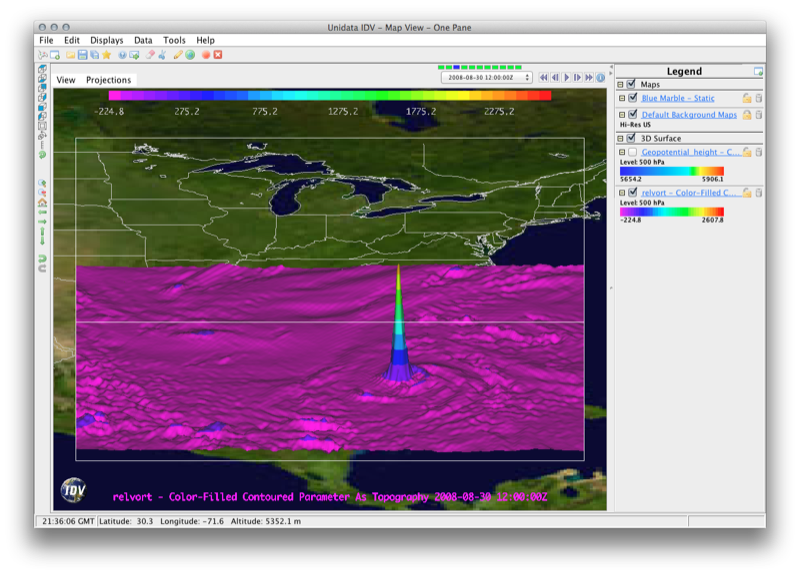
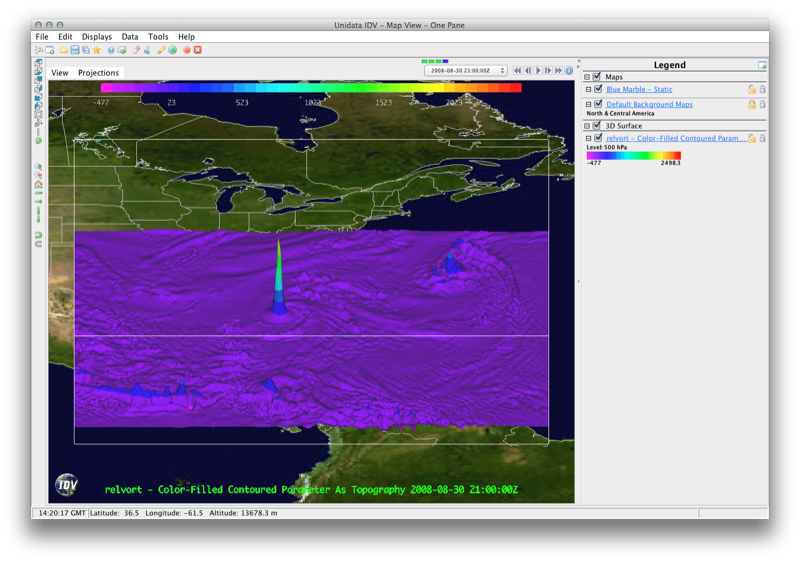
wrf workshop docs tweaks from 2012-06-27  meeting with Yuan, Julien, and Tom Y.

diff --git a/auxdata/docs/workshop/content/datadisplays/wrf/InteractiveWRFGridDisplays.html b/auxdata/docs/workshop/content/datadisplays/wrf/InteractiveWRFGridDisplays.html
@@ -9,10 +9,10 @@ Displays for WRF post-processed data.
 </div>
 
 <p>
-The following are examples of some of the different kinds of displays available in the IDV. For more information how to manipulate the display, simply click the image to see the User Guide section for that particular display type. The general format of this section will be an image, followed by the steps needed to reproduce the image. However, before diving into creating different displays in the IDV, let's take a moment to address performance issues you may encounter.
+The following are examples of some of the different kinds of displays available in the IDV. For more information how to manipulate the display, simply click the image to see the User Guide section for that particular display type. The general format of this section will be an image, followed by the steps needed to reproduce the image. However, before diving into creating different displays in the IDV, let's take a moment to discuss how to handle large data sets.
 </p>
 
-<div class="pagetitle">A note on performance</div>
+<div class="pagetitle">Preparation: Dealing with Large Data</div>
 
 <p>
 As you may have experienced, it can take quite some time to get the data into the IDV and render the displays. One way to speed this up is to spatially subset the data over an area of interest. For our case, the Gulf of Mexico is where the 'action' is, so let's subest for that particular region:
@@ -42,12 +42,12 @@ Many of the example images used below take advantage of the NASA blue marble bac
 </p>
 
 <p>
-It may seem like we've done a lot of work to setup our environment (loading data, subsetting, adding a background, etc.). In order to aid in quickly restoring our environment, we will use the <b>bundle</b> feature of the IDV. A bundle is a way of saving the state of the IDV (current data sources, loaded maps, etc.). You can create a bundle that points to local or remote data (an .xidv), or you can create a bundle that actually contains the data (a .zidv), the latter of which is useful when sharing displays of data you've generated yourself. For our purposes, let's create a bundle that points to the WRF output on our memory stick:
+It may seem like we've done a lot of work to setup our environment (loading data, subsetting, adding a background, etc.). To aid in quickly restoring our environment, we will use the [ht::popup {http://www.unidata.ucar.edu/software/idv/docs/userguide/Bundles.html} {bundle}] feature of the IDV. A bundle is a way of saving the state of the IDV (current data sources, loaded maps, etc.). You can create a bundle that points to local or remote data (an .xidv), or you can create a bundle that actually contains the data (a .zidv), the latter of which is useful when sharing displays of data you've generated yourself, as it ensures your colleagues have the data needed to view the display. For our purposes, let's create a bundle that points to the WRF output on our memory stick:
 </p>
 
 <ol class="step">
 <li>From the main menu bar, select [ht::menu {File} {Save As}] to bring up the [ht::command Save] dialog box.</li>
-<li>Make sure [ht::param Views], [ht::param Displays], and [ht::param Data Sources] are checked, as well as [ht::param Save with relative paths].</li>
+<li>Make sure [ht::param Views], [ht::param Displays], and [ht::param Data Sources] are checked.</li>
 <li>Make sure the [ht::param File Format:] is set to [ht::param IDV Bundles (*.xidv)], and name the bundle [ht::param basicSetup.xidv].</li>
 <li>Save your bundle in the same directory as the WRF output on the memory stick</li>
 </ol>
@@ -55,8 +55,14 @@ It may seem like we've done a lot of work to setup our environment (loading data
 [ht::cimg ./images/InteractiveWRFSaveBundle.png]
 
 <p>
-To test the bundle, click the scissors symbol, found just below the main menu bar, to clear out all of the data and displays. Then, from the main menu bar, click [ht::menu {File} {Open}], use the file dialog box to navigate to your bundle, and select your bundle. An [ht::command Open bundle] dialog box will appear &mdash; make sure [ht::param Remove and displays & data] is checked and click [ht::command OK]. That's it &mdash; you should be good to go!
+To test the bundle, click the scissors symbol, found just below the main menu bar, to clear out all of the data and displays. Then:
 </p>
+
+<ul class="step">
+<li>From the main menu bar, click [ht::menu {File} {Open}].</li>
+<li>Use the file dialog box to navigate to your bundle, and select your bundle.</li>
+<li>An [ht::command Open bundle] dialog box will appear &mdash; make sure [ht::param Remove and displays & data] and [ht::param Try to add displays to current windows] are checked and click [ht::command OK].
+</ul>
 
 <div class="pagetitle">Plan Views</div>
 
@@ -87,7 +93,7 @@ To test the bundle, click the scissors symbol, found just below the main menu ba
     to change the contour properties, such as base contour, interval, and label properties.</li>
 <li>In the [ht::command Displays] panel, change the contour color to black by clicking the box next to Color Table (likely labeled [ht::param PressureMSL]) and selecting [ht::menu {Solid} {Black}].</li>
 <li>Animate your display by clicking the <b>"play"</b> button, located just above
-    and to the right of your display on the Main View Window</li>
+    and to the right of your display on the Main View Window.</li>
 </ol>
 
 <div class="pagetitle">Wind Barb and Vector Displays</div>
@@ -112,7 +118,7 @@ to clean things up a bit.
 
 <ul class="step">
 <li>In the [ht::command Displays] panel, select
-    [ht::param truewindvectors] under [ht::param View1], and set the [ht::param Skip: XY:] factor to 10</li>
+    [ht::param truewindvectors] under [ht::param View1], and set the [ht::param Skip: XY:] factor to 10.</li>
 <li>Change the color of the barbs to white by selecting "white" from
     the dropdown box next to Color.</li>
 </ul>
@@ -134,7 +140,7 @@ creating the display.
 <li>Make sure your WRF ouput is [ht::popup "InteractiveWRFLoadOutput.html" loaded] (or utilize the bundle we just created).</li>
 <li>In the [ht::command Field Selector] panel,
     expand the [ht::param 2D grid] tab. Select
-    [ht::param Pressure Reduced to MSL @ msl]</li>
+    [ht::param Pressure Reduced to MSL @ msl].</li>
 </ol>
 
 <p>
@@ -174,7 +180,7 @@ averaged over longitude for each time-step. To average over latitude instead, re
     [ht::menu {3D Surface} {Isosurface Colored by another parameter}] display,
     and then click the [ht::command Create Display] button.</li>
 <li>A pop-up box will prompt you to select which parameter you would like to color
-    the wind speed isosurface. Select [ht::menu {3D grid} {Temperature @ isobaric}]</li>
+    the wind speed isosurface. Select [ht::menu {3D grid} {Temperature @ isobaric}].</li>
 <li>In the [ht::command Displays] panel, set the Isosuface value to 20 m/s.</li>
 <li>In the Main View window under the Legend List (right edge of the window), right-click the color table and select [ht::param Edit Color Table]. This will bring up the color table editor.</li>
 <li>From the editor window, place your cursor over the color table and right click. Select [ht::param Invert Color Table], and then click [ht::command OK] to exit the editor.</li>
@@ -197,13 +203,19 @@ averaged over longitude for each time-step. To average over latitude instead, re
     expand the [ht::param 3D grid] tab. Scroll down and expand the
     [ht::param Derived] tab. Select the
     [ht::param Relative Vorticity (from u_wind & v_wind)] field and the
-    [ht::menu {3D Surface} {Color-Filled Contoured Parameter as Topography}] display</li>
+    [ht::menu {3D Surface} {Color-Filled Contoured Parameter as Topography}] display.</li>
 <li>Select the "Level" tab from the subset panel and select 500 hPa,
     and then click the [ht::command Create Display] button.</li>
 <li>Right click the color scale in the legend (right panel in the Main View
-    Window), select [ht::param Change Range...].</li>
+    Window) and change the color scale by selecting [ht::menu {Basic} {Bright38}].</li>
+<li>Again, right click the color scale in the legend (right panel in the Main View
+    Window), but this time select [ht::param Change Range...]</li>
 <li>Click the [ht::param Use Predefined] box,
     select [ht::param From All Data], and then click [ht::command OK].</li>
+<li>In the [ht::command Displays] panel, select [ht::param relvort - Color-Filled...].
+    Click [ht::menu {Edit} {Properties}], select the [ht::param Color Scale Tab]
+    and check the box next to [ht::param visible]. Click [ht::command OK] to apply
+    the changes.</li>
 </ol>
 
 <div class="pagetitle">Cross Sections</div>
@@ -222,6 +234,12 @@ above, do the following:
 <li>Clear any existing displays by clicking the red and white eraser symbol found just below the Main Menu bar on either the Dashboard to Main View window.</li>
 <li>Make sure your WRF ouput is [ht::popup "InteractiveWRFLoadOutput.html" loaded] (or utilize the bundle we just created).</li>
 <li>In the [ht::command Field Selector] panel,
+    expand the [ht::param 2D grid] tab. Scroll down and expand the
+    [ht::param Derived] tab. Select the
+    [ht::param Speed (from u_wind & v_wind)] field and the
+    [ht::menu {Cross sections} {Color-Shaded Plan View}] display,
+    and then click the [ht::command Create Display] button.</li>
+<li>Return to the [ht::command Field Selector] panel,
     expand the [ht::param 3D grid] tab. Scroll down and expand the
     [ht::param Derived] tab. Select the
     [ht::param Speed (from u_wind & v_wind)] field and the
@@ -242,12 +260,47 @@ Notice that at this point, each cross section has its own control in the view wi
 <ol class="step">
 <li>In the [ht::command Display] panel,
     select [ht::display windspeed - Color-Filled Contour Cross Section],
-    then click [ht::menu {Edit} {Sharing} {Sharing on}]</li>
+    then click [ht::menu {Edit} {Sharing} {Sharing on}].</li>
 <li>Repeat the above step for the
     [ht::display truewindvectors - Vector Cross Section] display.</li>
 <li>Use your mouse to move one of the cross section indicators in the Main
     View Window to 'snap' the two separate cross sections together.</li>
 </ol>
+
+<p>
+Now that the two cross sections are linked, let's clean up the vector plot as it's pretty cluttered:
+</p>
+
+<ol class="step">
+<li>In the [ht::command Displays] panel, select
+    [ht::param truewindvectors] under [ht::param View1], and click the [ht::command Settings] tab.</li>
+<li>Change the color of the barbs to white by selecting "white" from
+    the dropdown box next to Color.</li>
+<li>Reduce the number of vectors being plotted by clicking [ht::menu {Edit} {Properties}], select the [ht::command Spatial Subset] tab in the Properties box that appears, and set [ht::param X Stride:] and [ht::param Y Stride:] to [ht::param Every twentieth point].</li>
+</ol>
+
+<p>
+As a final step, make sure the color scale used in both speed displays (plan view and cross section) have the same range, and display one of the scales. For each color scale in the legend (right panel in the Main View Window):
+</p>
+<ol class="step">
+<li>Right click the color scale in the legend (right panel in the Main View
+    Window), select [ht::param Change Range...]</li>
+<li>Click the [ht::param Use Predefined] box,
+    select [ht::param From All Data], and then click [ht::command OK].</li>
+</ol>
+
+<p>
+Then,
+</p>
+
+<ol class="step">
+<li>In the [ht::command Displays] panel, select either
+    [ht::param windspeed - ] listed under [ht::param View1], and set the [ht::command Settings] tab.</li>
+<li>Click [ht::menu {Edit} {Properties}], select the [ht::param Color Scale Tab]
+    and check the box next to [ht::param visible]. Click [ht::command OK] to apply
+    the changes.</li>
+</ol>
+
 
 <div class="pagetitle">2D and 3D Data Probes</div>
 
@@ -279,11 +332,11 @@ In the Main View Window, you will see contours of [ht::param Pressure_Reduced_to
     expand the [ht::param 3D grid] tab, and select the
     [ht::param Relative Humidity @ isobaric] field. Then, hold
     control (or Command, if on a Mac) and select the
-    [ht::menu 3D Surface} {Isosurface}] and [ht::menu Probes} {Time/Height Display (Contours)}] displays, and then click the
+    [ht::menu {3D Surface} {Isosurface}] and [ht::menu {Probes} {Time/Height Display (Contours)}] displays, and then click the
     [ht::command Create Display] button.</li>
 <li>In the [ht::command Display] panel,
     select [ht::display Relative_humidity - Isosurface],
-    and set the isosurface value to 90%</li>
+    and set the isosurface value to 90%.</li>
 </ol>
 
 <p>
@@ -303,17 +356,18 @@ In the Main View Window, you will see the 90% RH isosurface, as well as a time-h
     [ht::param Sounding Data (with true winds)] field and the
     [ht::display Soundings] ->
     [ht::display Grid Skew-T].</li>
-<li> Before creating the display, look below the display panel for the subset
+<li>Before creating the display, look below the display panel for the subset
     panel and select the [ht::param Times] tab. Select [ht::param Use Selected] from the drop-down
     box and select the first three time steps (hold control or command to select
     multiple times),then click the [ht::command Create Display] button.</li>
+<li>Next, select the [ht::param Region] tab and click-and-drag a rectangular region around Cuba - we're subsetting spatially to focus on the hurricane.</li>
 <li>Add a Color-Shaded Plan View of the 2D variable
     [ht::param Pressure_reduced_to_MSL @ msl] to
     more easily navigate the skew-T location marker through the dataset (similar
     to the time-height marker from the previous example).</li>
 <li>Place the skew-T location marker in a region of interest and return to
     the Dashboard [ht::command Displays] tab. Undock the display
-    ([ht::menu {View} {Undock from Dashboard}])</li>
+    ([ht::menu {View} {Undock from Dashboard}]).</li>
 </ol>
 
 <p>

diff --git a/auxdata/docs/workshop/content/datadisplays/wrf/InteractiveWRFDerivedData.html b/auxdata/docs/workshop/content/datadisplays/wrf/InteractiveWRFDerivedData.html
@@ -64,7 +64,7 @@ Sometimes the IDV will not recognize the variables in your file, and thus will n
 Once UCOMPWIND is added to the alias list, the IDV will know to associate UCOMPWIND with the U variable used in derived quantities. Changes to the alias list also apply to the system derived quantities, such as:
 </p>
 
-<ol class="step">
+<ul class="step">
 <li>Dewpoint</li>
 <li>Mixing ratio</li>
 <li>Relative Humidity</li>
@@ -82,7 +82,7 @@ Once UCOMPWIND is added to the alias list, the IDV will know to associate UCOMPW
 <li>True Wind Vectors</li>
 <li>Ocean Flow Vectors</li>
 <li>Sounding Data (with and without winds)</li>
-</ol>
+</ul>
 
 <div class="pagetitle">Parameter colored by another</div>
 
@@ -105,7 +105,7 @@ Once UCOMPWIND is added to the alias list, the IDV will know to associate UCOMPW
 
 <p>You can change the level at which the colored vectors are displayed directly from the [ht::command Displays] tab using the [ht::param Levels] drop-down box.</p>
 
-<div class="pagetitle">2D and 3D Trajectories</div>
+<div class="pagetitle">2D and 3D Trajectories (and more about bundles)</div>
 
 <p>
 The IDV can generate 2D and 3D trajectories. To access the trajectory features:
@@ -122,42 +122,32 @@ The fields of [ht::param u], [ht::param v], and [ht::param w] are the individual
 </p>
 
 <p>
-That said, <b>loading the data and computing the trajectories can be quite time consuming</b>, so we've created an IDV bundle that will allow you to explore the trajectory capabilities of the IDV. The bundle can be found on the thumb drive given to you as part of this course. However, it can also be found on our [ht::popup {http://motherlode.ucar.edu/repository/entry/show/RAMADDA/IDV+Community+Resources/Bundles/Yuan%27s+Bundles/Hurricane+Gustav+%28smaller%29} {RAMADDA}] server if you are working through this tutorial at home.
-</p>
-
-<div class="pagetitle">Bundles</div>
-
-<p>
-IDV [ht::popup {http://www.unidata.ucar.edu/software/idv/docs/userguide/Bundles.html} {Bundles}] are a way to save the state the of the IDV, like the list of data sources, displays types, jython formulas, view angle, etc., as well as the actual data being used to create the displays. If you just want to save the state of the IDV and download the data from a remote server as needed, then the bundle will have the extension .xidv. This is useful if you would like to create a view of the current data from your favorite model, but the actual data source changes (i.e. you like the RAP 13 km forecast model and you always want to see the latest data). However, for your own WRF output (which may live only on your machine), it's nice to attach the actual data to the display environment you've created to aid in the ability to share your analysis &mdash; these bundels have the extension .zidv.
+That said, <b>loading the data and computing the trajectories can be quite time consuming</b>, so we've created an IDV bundle that will allow you to explore the trajectory capabilities of the IDV. The bundle can be found on the memory stick given to you as part of this course. However, it can also be found on our [ht::popup {http://motherlode.ucar.edu/repository/entry/show/RAMADDA/IDV+Community+Resources/Bundles/Yuan%27s+Bundles/Hurricane+Gustav+%28smaller%29} {RAMADDA}] server if you are working through this tutorial at home.
 </p>
 
 <p>
-Loading a .zidv or .xidv bundle is simple.
+Use the IDV to load the GustavTrajectory.zidv bundle (located under the [ht::param bundles] folder on your memory stick) and explore the trajectory facility of the IDV. Note that it takes about 3 minutes on a high-end machine to create the display, so please be patient!
 </p>
 
-<ol class="step">
-<li>In the [ht::command Data Choosers] panel, select [ht::menu {General} {Files}] in the left panel and then navigate your file system in the right panel to find the bundle. Select the bundel and click [ht::command Add Source]</li>
-<li>An [ht::command Open Bundle] dialog box will pop-up - make sure [ht::param Remove all displays and data] and [ht::param Try to add displays to current windows] are the only options checked, and click [ht::command OK].</li>
-<li>If the file is a .zidv file (that is, the data are included), the IDV will ask where you would like to store the data. Select [ht::param Write to temporary directory], and then click [ht::command OK].</li>
-</ol>
-
-<p>
-Use the IDV to load the traj0.zidv bundle and explore the trajectory facility of the IDV. Note that it takes about 3 minutes on a high-end machine to create the display, so please be patient!
-</p>
+<ul class="step">
+<li>From the main menu bar, click [ht::menu {File} {Open}].</li>
+<li>Use the file dialog box to navigate to your bundle, and select your bundle.</li>
+<li>An [ht::command Open bundle] dialog box will appear &mdash; make sure [ht::param Remove and displays & data] and [ht::param Try to add displays to current windows] are checked and click [ht::command OK].
+</ul>
 
 [ht::cimg ./images/WRF_TrajByPotenTemp.gif]
 
 <div class="pagetitle">Ensemble data</div>
 
 <p>
-The IDV contains many functions designed for analysis of ensemble model data. These functions can be utilized if the data you are using contains an ensemble dimension (alongside temporal and spatial dimensions). The ensemble functions can be accessed in the [ht::command Field Selector] panel by choosing "Formulas" as the Data source and expanding the [ht::param Grids] tab; The ensemble functions will be listed under the Ensemble tab</li>
+The IDV contains many functions designed for analysis of ensemble model data. These functions can be utilized if the data you are using contains an ensemble dimension (alongside temporal and spatial dimensions). The ensemble functions can be accessed in the [ht::command Field Selector] panel by choosing "Formulas" as the Data source and expanding the [ht::param Grids] tab; The ensemble functions will be listed under the Ensemble tab.</li>
 </p>
 
 <p>
 Current ensemble functions include:
 </p>
 
-<ol class="step">
+<ul class="step">
 <li>Average over members</li>
 <li>Maximum over members</li>
 <li>Minimum over members</li>
@@ -166,7 +156,7 @@ Current ensemble functions include:
 <li>Percentile calculation</li>
 <li>Range of values</li>
 <li>Univariate probability</li>
-</ol>
+</ul>
 
 <p>
 The subsetting feature of the IDV can also be used to include/exclude specific members from these calculations.

diff --git a/auxdata/docs/workshop/content/datadisplays/wrf/InteractiveWRFLoadOutput.html b/auxdata/docs/workshop/content/datadisplays/wrf/InteractiveWRFLoadOutput.html
@@ -9,7 +9,16 @@ Getting your WRF post-processed data into the IDV environment.
 </div>
 
 <p>
-If you have participated in the WRF tutorial, then you are likely familiar with the output from the Hurricane Gustav simulation, which is what we will use in this tutorial. These data are on the thumb drive you received as part of the workshop, although any WRF post-processed output should do fine. While the IDV can handel the staggered grids produced by WRF, it's <b>highly</b> recommended that you post process the raw output to get your data on a non-staggered grid, as it's a large performance hit to let the IDV do this for you on the fly.
+If you have participated in the WRF tutorial, then you are likely familiar with the output from the Hurricane Gustav simulation, which is what we will use in this tutorial. These data are on the thumb drive you received as part of the workshop, although any WRF post-processed output should do fine. While the IDV can handel the staggered grids produced by WRF, it's <b>highly</b> recommended that you:
+</p>
+
+<ul class="step">
+  <li>post process the raw output to get your data on a non-staggered grid.</li>
+  <li>use netCDF or grib output.</li>
+</ul>
+
+<p>
+While the IDV can handle staggered grids, it's a large performance hit to let the IDV de-stagger themfor you on the fly when performing calculations.
 </p>
 
 <p>
@@ -27,9 +36,9 @@ The display above shows the Dashboard window of the IDV. The [ht::command Data C
 </p>
 
 <ol class="step">
-  <li>Locate your WRF output in the file browser and select the files you wish to load (hold shift to select multiple files)</li>
-  <li>Make sure that [ht::param Data Source Type] is set to [ht::param Aggregate Grids by Time]</li>
-  <li>Click [ht::command Add Source]</li>
+  <li>Locate your WRF output in the file browser and select the files you wish to load (hold shift to select multiple files).</li>
+  <li>Make sure that [ht::param Data Source Type] is set to [ht::param Aggregate Grids by Time].</li>
+  <li>Click [ht::command Add Source].</li>
 </ol>
 
 <p>

diff --git a/auxdata/docs/workshop/content/datadisplays/wrf/InteractiveWRFSavingDisplays.html b/auxdata/docs/workshop/content/datadisplays/wrf/InteractiveWRFSavingDisplays.html
@@ -7,7 +7,7 @@
 <div class="overview">
 Saving the displays created in the IDV.
 </div>
-tclsh ../../build/generate.tcl -clean
+
 <p>
 In the previous section, we loaded some WRF output and created a very simple contour display. In this section, we will explore how to save images and animations of our displays. However, before proceeding, let's create a [ht::param multipanel display] which extends our previous display of [ht::param Pressure_reduced_to_MSL @ msl].</p>
 
@@ -15,7 +15,7 @@ In the previous section, we loaded some WRF output and created a very simple con
 <li>From the [ht::command Dashboard], click [ht::menu {File} {New} {View Window} {Map View} {Two Panes}].</li>
 <li>Go to the [ht::command View Window] and click on the left display (look for border around the window to turn blue).</li>
 <li>Go back to the [ht::command Field Selector] in the Dashboard and create a [ht::display Color-filled Contour Plan View] of [ht::param Pressure_reduced_to_MSL @ msl].</li>
-<li>Go to the [ht::command View Window] and click on the right display (again, look for border around the window to turn blue)</li>
+<li>Go to the [ht::command View Window] and click on the right display (again, look for border around the window to turn blue).</li>
 <li>Go back to the [ht::command Field Selector] in the Dashboard and create a [ht::display Color-filled Contour Plan View] of [ht::param Temperature @ Surface].</li>
 </ol>
 
@@ -62,7 +62,7 @@ To add axis labels to your images. To display the axis labels:
 </ol>
 [ht::cimg images/InteractiveWRFViewProperties.png]
 <ol class="step">
-<li>Finally, save your display (either image or movie), and breathe a sigh of relief</li>
+<li>Finally, save your display (either image or movie), and breathe a sigh of relief.</li>
 </ol>
 [ht::cimg images/InteractiveWRFTwoDisplaysLabs.gif]
 
